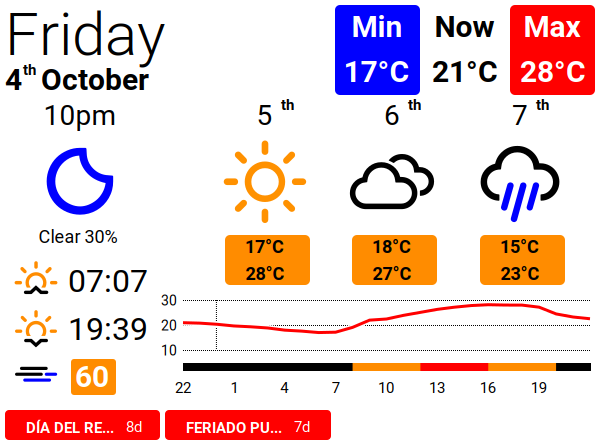
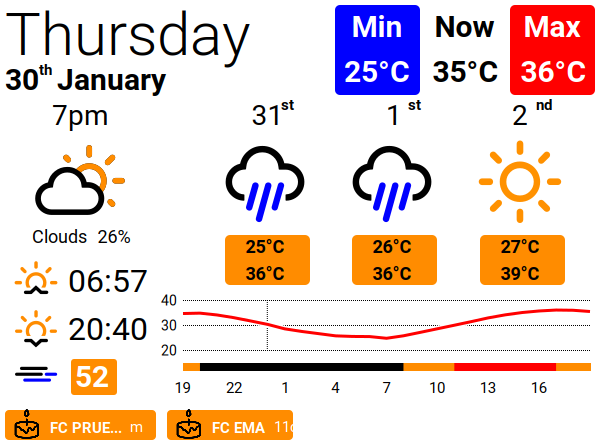
apod para prueba

diff --git a/server/holidays.py b/server/holidays.py
@@ -3,45 +3,51 @@ import requests
 
 year = datetime.datetime.now().year
 
-url = 'https://api.argentinadatos.com/v1/feriados/{year}'
+url = f'https://api.argentinadatos.com/v1/feriados/{year}'
 
 response = requests.get(url)
 
-if response.status_code == 200:
-    print(response.json())
-
-
 
 holidays = {
-    datetime.date(year, 1, 1): "Año Nuevo",
-    datetime.date(year, 2, 12): "Carnaval",
-    datetime.date(year, 2, 13): "Carnaval",
-    datetime.date(year, 3, 24): "Memoria verdad y justicia",
-    datetime.date(year, 4, 2): "Veterano Malvinas",
-    datetime.date(year, 5, 1): "Trabajador",
-    datetime.date(year, 5, 25): "Revolución de Mayo",
-    datetime.date(year, 6, 20): "Belgrano Inmortal",
-    datetime.date(year, 7, 9): "Independencia",
-    datetime.date(year, 12, 8): "Religioso",
-    datetime.date(year, 12, 25): "Navidad",
-
-    # Feriados trasladables
-    datetime.date(year, 6, 17): "Güemes Inmortal",
-    datetime.date(year, 8, 17): "San Martin Inmortal",
-    datetime.date(year, 10, 12): "Diversidad Cultural",
-    datetime.date(year, 11, 20): "Soberanía Nacional",
-
-    # Feriados puentes
-    datetime.date(year, 4, 1): "Bridge",
-    datetime.date(year, 6, 21): "Bridge",
-    datetime.date(year, 10, 11): "Bridge",
-
-    # Feriados regionales
-    datetime.date(year, 7, 25): "Patrono Santiago",
-
 
     # cumpleaños
-    datetime.date(year, 9, 24): "CF FC Bata   ",
-    datetime.date(year, 9, 26): "Alerta 1",
-    datetime.date(year, 9, 27): "FERIADO ",
+    datetime.date(year, 1, 3): "CF  Tinto   ",
+    datetime.date(year, 1, 25): "CF  Cabe-Huevo",
+    datetime.date(year, 2, 10): "CF  Ema   ",
+    datetime.date(year, 3, 1): "CF  Gaby   ",
+    datetime.date(year, 3, 7): "CF  Caco   ",
+    datetime.date(year, 3, 11): "CF  Fede   ",
+    datetime.date(year, 3, 29): "CF  Ojon   ",
+    datetime.date(year, 4, 1): "CF  Mellis   ",
+    datetime.date(year, 4, 12): "CF  Stefa   ",
+    datetime.date(year, 4, 27): "CF  Nacho   ",
+    datetime.date(year, 5, 1): "CF  Luci   ",
+    datetime.date(year, 5, 2): "CF  Nicos  ",
+    datetime.date(year, 5, 17): "CF  Mati  ",
+    datetime.date(year, 5, 21): "CF  Nico H  ",
+    datetime.date(year, 6, 28): "CF  Tati  ",
+    datetime.date(year, 7, 20): "CF  Mari   ",
+    datetime.date(year, 7, 26): "CF  Noe   ",
+    datetime.date(year, 8, 12): "CF  Juan  ",
+    datetime.date(year, 8, 21): "CF  Lucho  ",
+    datetime.date(year, 8, 27): "CF  Cabeza  ",
+    datetime.date(year, 9, 24): "CF  Bata   ",
+    datetime.date(year, 9, 5): "CF  JM   ",
+    datetime.date(year, 10, 26): "CF  Bruno  ",
+    datetime.date(year, 12, 17): "CF  Vieja   ",
+    datetime.date(year, 11, 21): "CF  Viejo   ",
+   
 }
+
+if response.status_code == 200:
+    feriados = response.json()
+    for feriado in feriados:
+        fecha = datetime.datetime.strptime(feriado['fecha'], "%Y-%m-%d").date()
+        holidays[fecha] = feriado['nombre']
+else:
+    print("Error fetching holidays")
+
+
+
+
+
